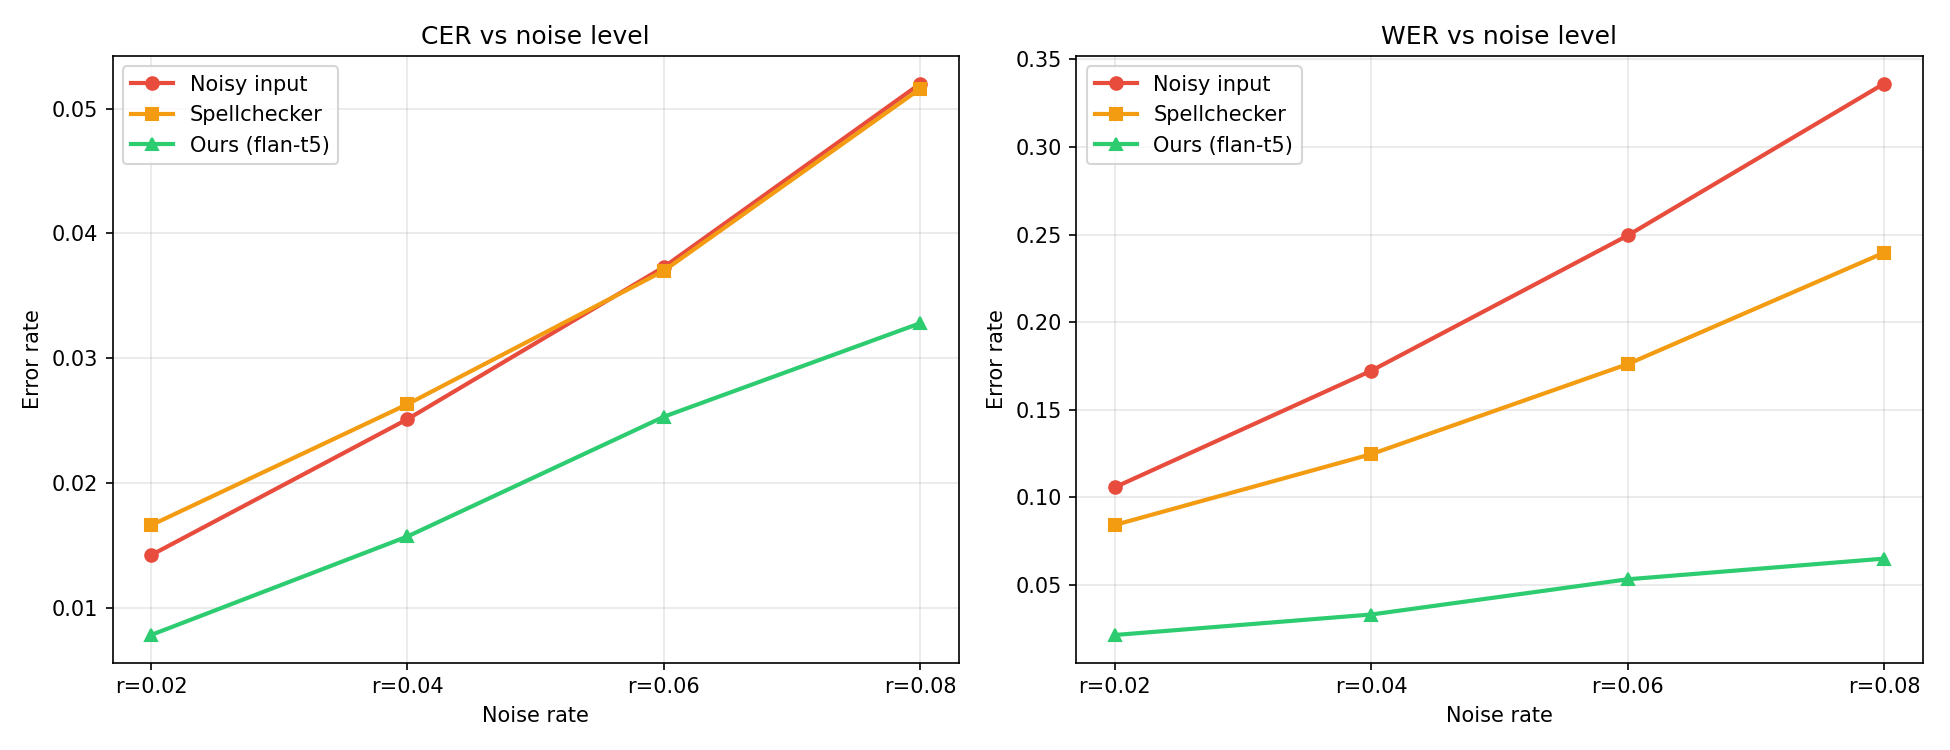
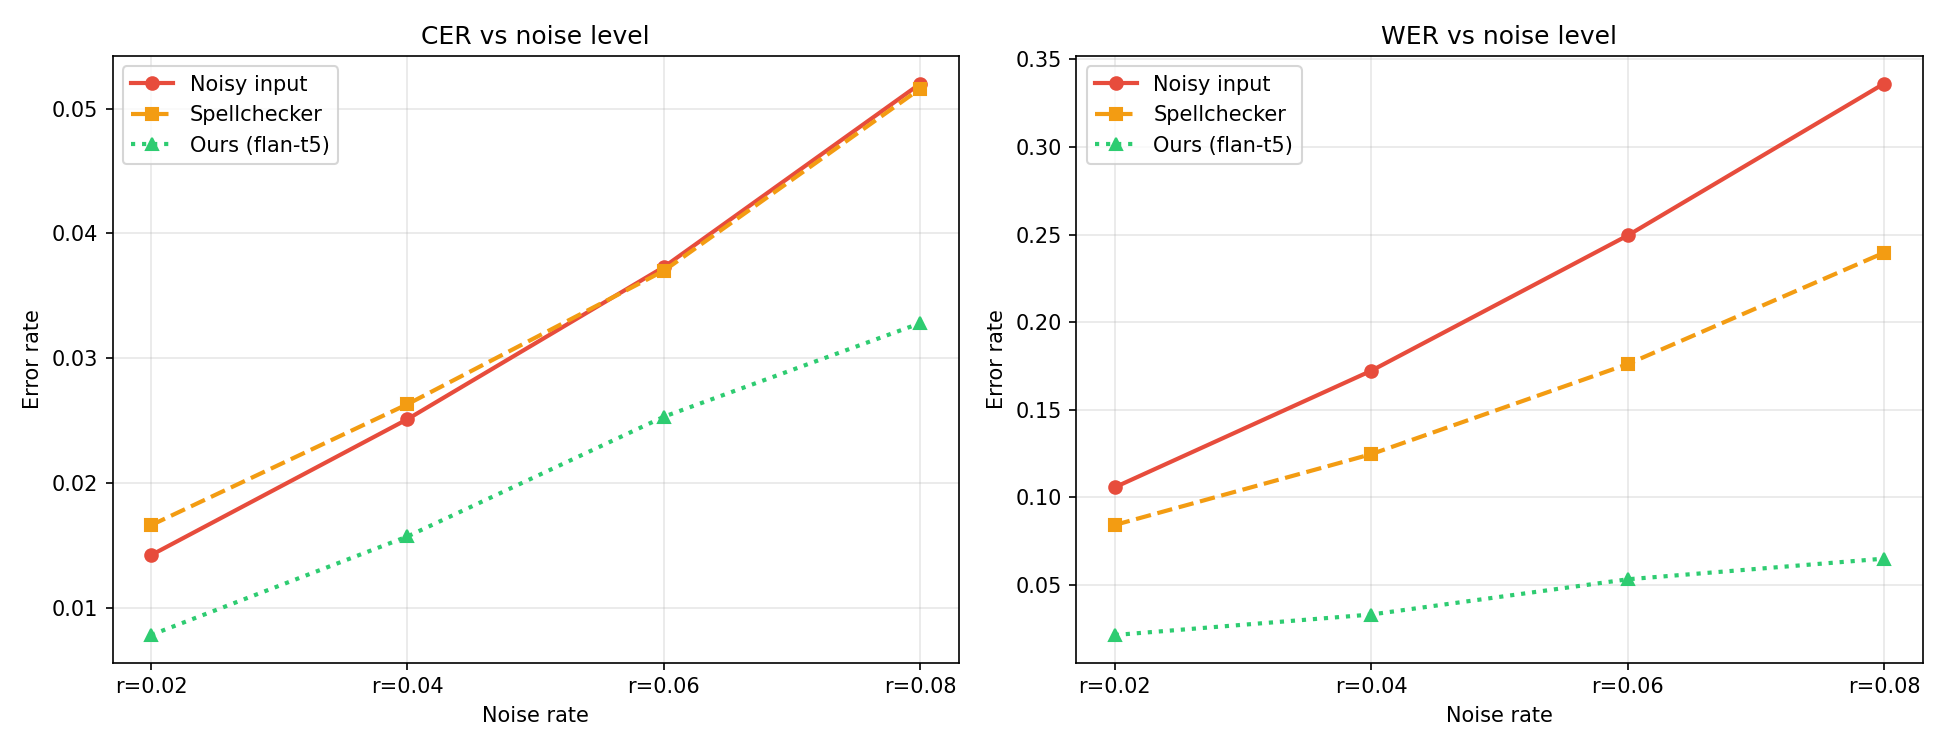
fix: make figures legible in black and white

diff --git a/src/model/postprocess.py b/src/model/postprocess.py
@@ -132,9 +132,13 @@ def plot_cer_wer_bar(overall: dict, out_dir: Path) -> None:
     x = list(range(len(metrics)))
     fig, ax = plt.subplots(figsize=(8, 5))
     w = 0.27
-    ax.bar([i - w for i in x], raw,   width=w, label="Noisy input",   color="#e74c3c")
-    ax.bar(x,                  spell, width=w, label="Spellchecker",  color="#f39c12")
-    ax.bar([i + w for i in x], model, width=w, label="Ours (flan-t5)", color="#2ecc71")
+    # Hatching keeps the series distinguishable when printed in black and white
+    ax.bar([i - w for i in x], raw,   width=w, label="Noisy input",    color="#e74c3c",
+           hatch="//", edgecolor="black", linewidth=0.8)
+    ax.bar(x,                  spell, width=w, label="Spellchecker",   color="#f39c12",
+           hatch="..", edgecolor="black", linewidth=0.8)
+    ax.bar([i + w for i in x], model, width=w, label="Ours (flan-t5)", color="#2ecc71",
+           hatch="\\\\", edgecolor="black", linewidth=0.8)
     ax.set_xticks(x)
     ax.set_xticklabels(metrics, fontsize=13)
     ax.set_ylabel("Error rate (lower is better)")
@@ -167,9 +171,12 @@ def plot_per_noise_level(per_level: dict, out_dir: Path) -> None:
         (axes[0], raw_cer, spell_cer, model_cer, "CER vs noise level"),
         (axes[1], raw_wer, spell_wer, model_wer, "WER vs noise level"),
     ]:
-        ax.plot(rates, raw,   marker="o", label="Noisy input",  color="#e74c3c", linewidth=2)
-        ax.plot(rates, spell, marker="s", label="Spellchecker", color="#f39c12", linewidth=2)
-        ax.plot(rates, model, marker="^", label="Ours (flan-t5)", color="#2ecc71", linewidth=2)
+        ax.plot(rates, raw,   marker="o", label="Noisy input",    color="#e74c3c",
+                linewidth=2, linestyle="-")
+        ax.plot(rates, spell, marker="s", label="Spellchecker",   color="#f39c12",
+                linewidth=2, linestyle="--")
+        ax.plot(rates, model, marker="^", label="Ours (flan-t5)", color="#2ecc71",
+                linewidth=2, linestyle=":")
         ax.set_xlabel("Noise rate")
         ax.set_ylabel("Error rate")
         ax.set_title(title)

diff --git a/src/model/error_analysis.py b/src/model/error_analysis.py
@@ -96,6 +96,8 @@ def plot_error_categories(summary: dict, out_dir: Path) -> None:
     methods = ["ocr", "spellcheck", "corrected"]
     labels = {"ocr": "Noisy input", "spellcheck": "Spellchecker", "corrected": "Ours (flan-t5)"}
     colors = {"ocr": "#e74c3c", "spellcheck": "#f39c12", "corrected": "#2ecc71"}
+    # Hatching keeps the series distinguishable when printed in black and white
+    hatches = {"ocr": "//", "spellcheck": "..", "corrected": "\\\\"}
 
     x = list(range(len(cats)))
     w = 0.27
@@ -103,7 +105,8 @@ def plot_error_categories(summary: dict, out_dir: Path) -> None:
     for i, m in enumerate(methods):
         vals = [summary["total_errors_by_method"][m].get(c, 0) for c in cats]
         ax.bar([xi + (i - 1) * w for xi in x], vals, width=w,
-               label=labels[m], color=colors[m])
+               label=labels[m], color=colors[m], hatch=hatches[m],
+               edgecolor="black", linewidth=0.8)
     ax.set_xticks(x)
     ax.set_xticklabels(cats, rotation=20, ha="right")
     ax.set_ylabel("Number of missed tokens (lower is better)")
